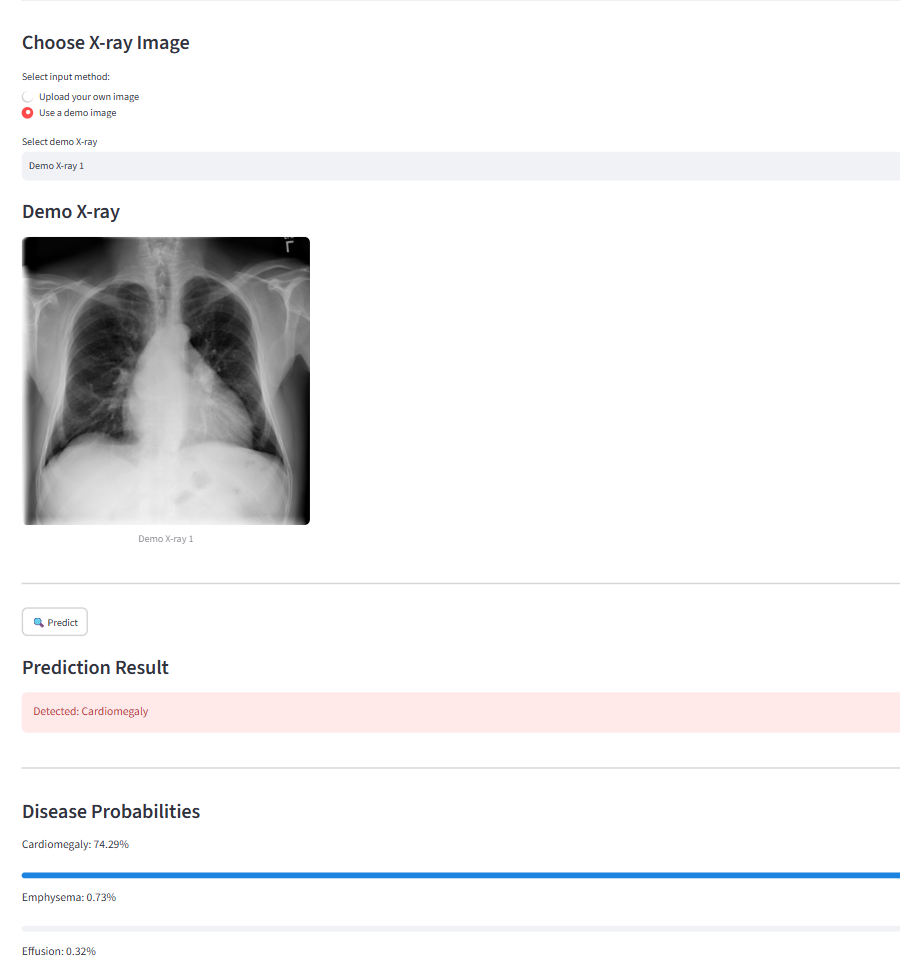
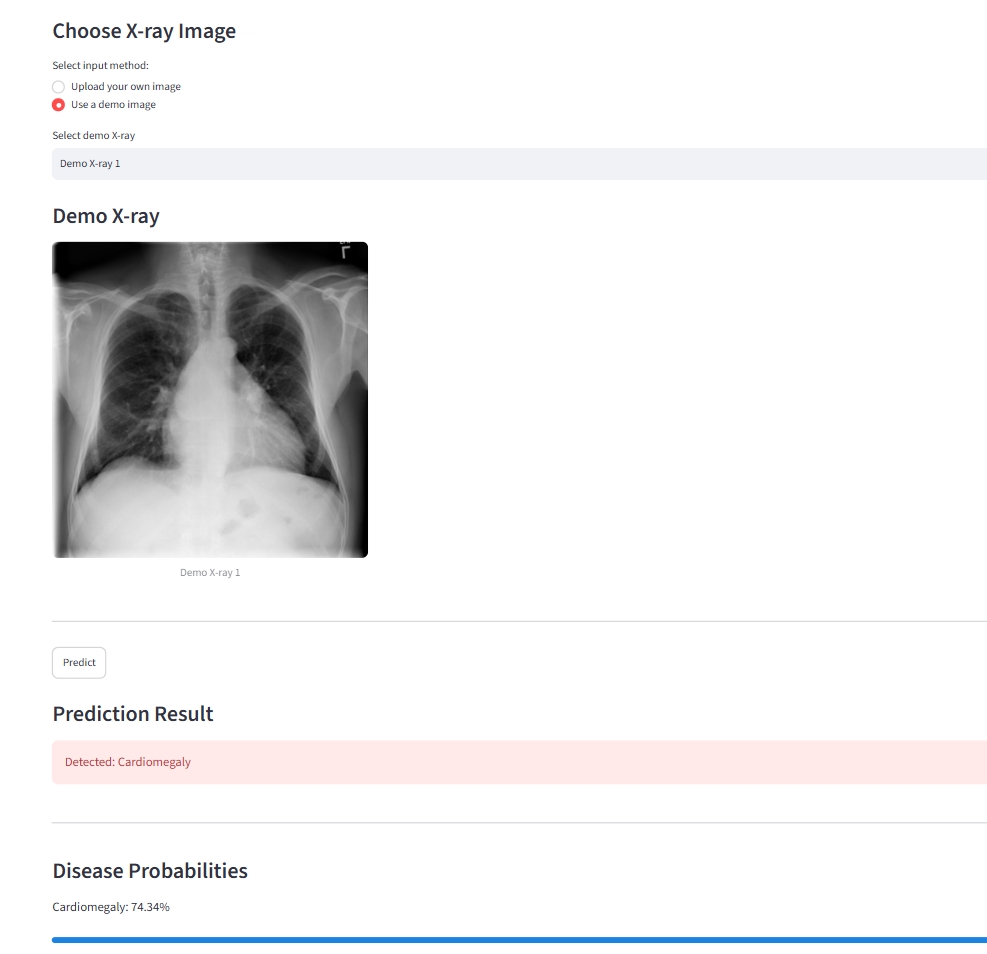
app_screenshot

diff --git a/README.md b/README.md
@@ -23,7 +23,7 @@ Streamlit App:
 <https://chest-xray-disease-detection-akhhyawqungdt53tstlnij.streamlit.app/>
 
 GitHub Repository:
-<https://github.com/HarishChaisir/Chest-XRay-Disease-Detectionk>
+<https://github.com/HarishChaisir/Chest-XRay-Disease-Detection>
 
 # Overview
 
